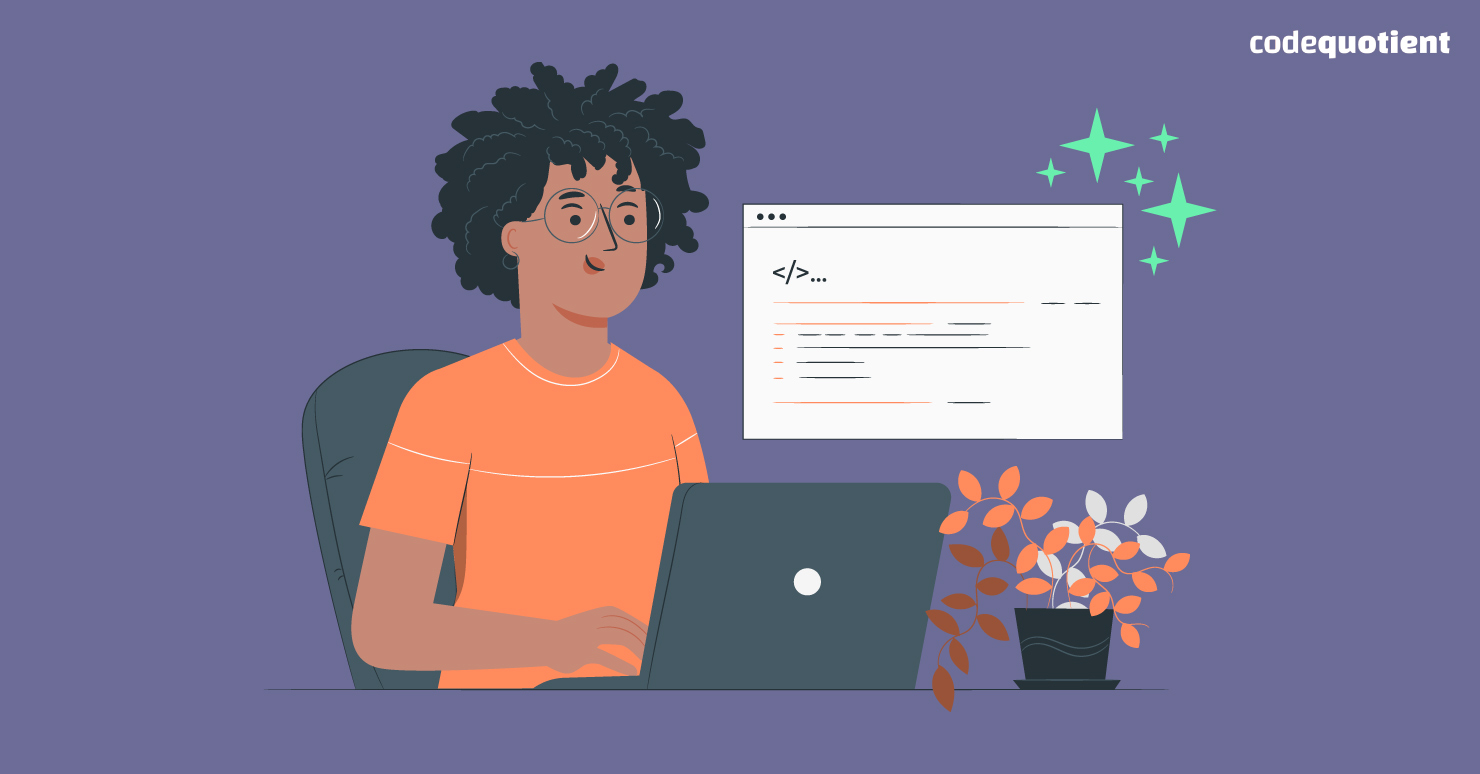
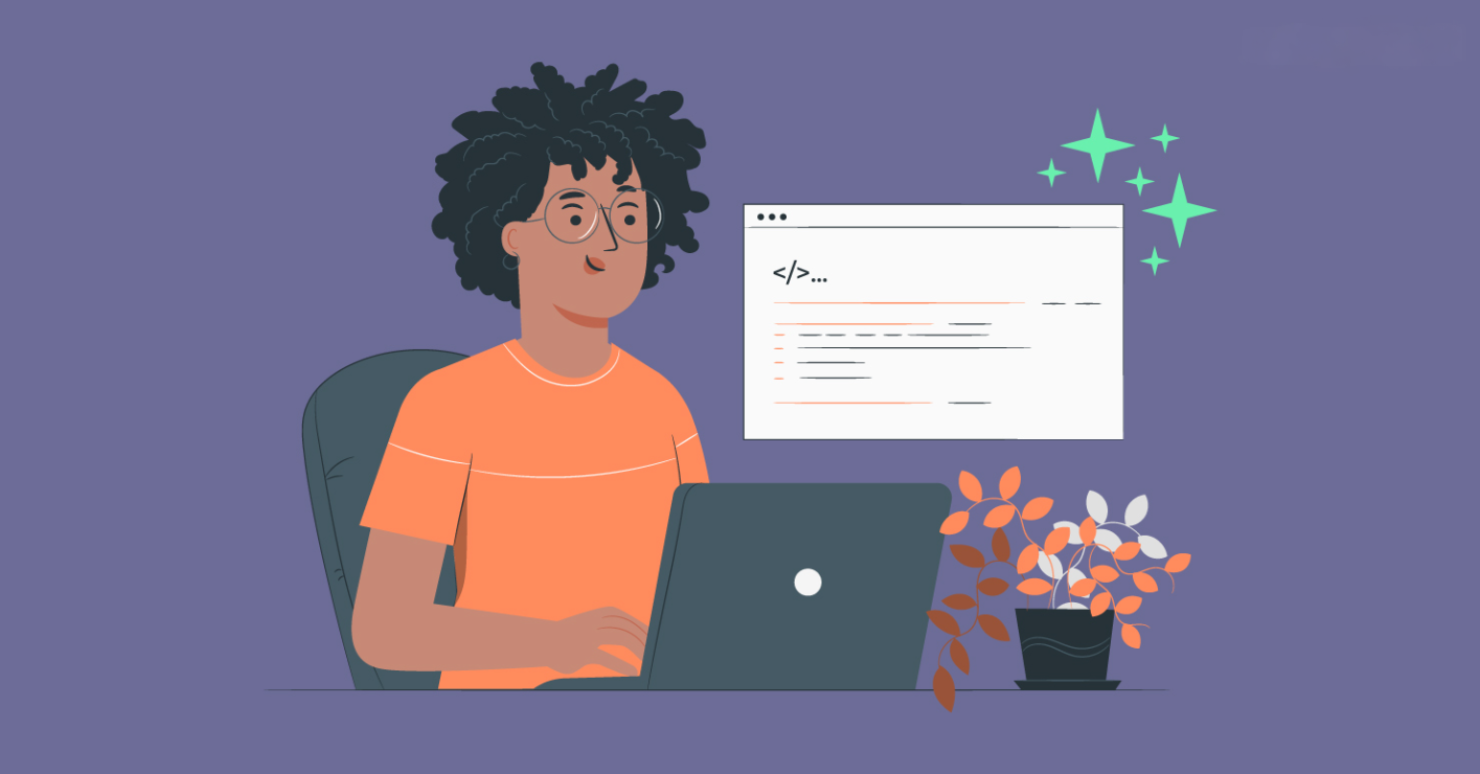
upload-projeto

diff --git a/portifolioorkut__link.html b/portifolioorkut__link.html
@@ -406,12 +406,12 @@
         <article>
             <!-- Inicio das estruturas -->
 
-            <!-- André -->
+            <!-- Alecio -->
 
             <a href="https://dehferrz220.github.io/clean_code_work/" target="_blank"><img src="./print_andre.png"
                     alt="Align Text and Picture" class="align-image" /></a>
 
-            <h2>@dehferrz - Clean Code</h2>
+            <h2>@ - Seletor de Cores</h2>
 
             <p>Escrever código limpo é fundamental para desenvolver aplicações JavaScript que sejam legíveis, escaláveis
                 e de fácil manutenção. Adotar boas práticas, como uma organização eficiente, nomes claros, uso de
@@ -424,12 +424,12 @@
                 limpo e modularização é um investimento na qualidade do seu projeto, garantindo que ele seja robusto
                 hoje e fácil de evoluir no futuro.</p>
 
-            <!-- Eduardo -->
+            <!-- Arthur -->
 
             <a href="https://eduardo-7672.github.io/profile/" target="_blank"><img src="./print_eduardo.png"
                     alt="Align Text and Picture" class="align-image" /></a>
 
-            <h2>@ms.edu15 - Protifolio</h2>
+            <h2>@ - Banco Vocação</h2>
 
             <p>Desenvolver um portfólio impactante é crucial para evidenciar suas habilidades e projetos. Adotar a
                 abordagem Mobile First é a melhor maneira de garantir que ele atenda às necessidades dos usuários
@@ -440,12 +440,12 @@
                 abordagem, que coloca o usuário no centro da experiência. Um portfólio Mobile First não só melhora a
                 usabilidade, mas também demonstra seu domínio das melhores práticas em design e desenvolvimento web.</p>
 
-            <!-- Erick -->
+            <!-- Fabricio -->
 
             <a href="https://erik-pssp.github.io/first_mobile/" target="_blank"><img src="./print_erick.png"
                     alt="Align Text and Picture" class="align-image" /></a>
 
-            <h2>@erikps_15 - Mobile First</h2>
+            <h2>@ - JokeEmPôh</h2>
 
             <p>No desenvolvimento web moderno, adotar a abordagem Mobile First é essencial para criar experiências de
                 usuário otimizadas e acessíveis. O conceito de Mobile First envolve projetar e desenvolver inicialmente
@@ -456,12 +456,12 @@
                 responsivos que se ajustam perfeitamente a diferentes tamanhos de tela, proporcionando uma experiência
                 de usuário consistente e agradável.</p>
 
-            <!-- Gabriel Vitor -->
+            <!-- Gabriela Ramos -->
 
             <a href="https://borgez467.github.io/snake_run/" target="_blank"><img src="./print_GVitor.png"
                     alt="Align Text and Picture" class="align-image" /></a>
 
-            <h2>@@In.gabriel__ - Snake Run</h2>
+            <h2>@ - Hub de Jogos</h2>
 
             <p>A lógica do jogo envolve a manipulação do DOM, o uso de arrays para gerenciar os movimentos da cobra e a
                 implementação de eventos de teclado para um controle dinâmico. Este projeto é um excelente exemplo de
@@ -470,12 +470,12 @@
                 oportunidade para aprimorar suas habilidades em JavaScript enquanto explora as possibilidades do
                 desenvolvimento de jogos.</p>
 
-            <!-- Guilherme Hipolito -->
+            <!-- Kauê Torres -->
 
             <a href="https://thundergirando.github.io/portifolio/" target="_blank"><img src="./print_Hipolito.png"
                     alt="Align Text and Picture" class="align-image" /></a>
 
-            <h2>@thundergirando - Portifolio</h2>
+            <h2>@ - VocacaoFlix</h2>
 
             <p>Desenvolver um portfólio impactante é crucial para destacar suas habilidades e projetos. Adotar o
                 conceito de Mobile First é a melhor maneira de garantir que ele atenda às necessidades dos usuários
@@ -488,12 +488,12 @@
                 não só melhora a usabilidade, mas também demonstra seu domínio das melhores práticas em design e
                 desenvolvimento web.</p>
 
-            <!-- Garbiel Marquez -->
+            <!-- Kauê Nunes -->
 
             <a href="https://marquesz777.github.io/snakerun/" target="_blank"><img src="./print_miura.png"
                     alt="Align Text and Picture" class="align-image" /></a>
 
-            <h2>@b_marquesz - Snake Run</h2>
+            <h2>@ - Temporizador Simples</h2>
 
             <p>A lógica do jogo envolve a manipulação do DOM, o uso de arrays para gerenciar os movimentos da cobra e a
                 implementação de eventos de teclado para um controle dinâmico. Este projeto é um excelente exemplo de
@@ -502,12 +502,12 @@
                 oportunidade para aprimorar suas habilidades em JavaScript enquanto explora as possibilidades do
                 desenvolvimento de jogos.</p>
 
-            <!-- Guilherme Vieira -->
+            <!-- Leonardo Lira -->
 
             <a href="https://guilhermeghz.github.io/portifolio/" target="_blank"><img src="./print_guilherme.png"
                     alt="Align Text and Picture" class="align-image" /></a>
 
-            <h2>@Ghz.vieira - Portifolio</h2>
+            <h2>@ - Hangman Game</h2>
 
             <p>Desenvolver um portfólio impactante é crucial para destacar suas habilidades e projetos. Adotar o
                 conceito de Mobile First é a melhor maneira de garantir que ele atenda às necessidades dos usuários
@@ -520,12 +520,12 @@
                 não só melhora a usabilidade, mas também demonstra seu domínio das melhores práticas em design e
                 desenvolvimento web.</p>
 
-            <!-- Henrique -->
+            <!-- Lecticia (Let) -->
 
             <a href="https://rique-so07.github.io/profile/" target="_blank"><img src="./print_henrique.png"
                     alt="Align Text and Picture" class="align-image" /></a>
 
-            <h2>@_.rrik - Portifolio</h2>
+            <h2>@ - Temporizador Simples</h2>
 
             <p>Desenvolver um portfólio impactante é crucial para destacar suas habilidades e projetos. Adotar o
                 conceito de Mobile First é a melhor maneira de garantir que ele atenda às necessidades dos usuários
@@ -538,22 +538,22 @@
                 não só melhora a usabilidade, mas também demonstra seu domínio das melhores práticas em design e
                 desenvolvimento web.</p>
 
-            <!-- Henrique
+            <!-- Marcos Primo-->
 
             <a href="#" target="_blank"><img src="#" alt="Align Text and Picture" class="align-image" /></a>
 
-            <h2>Texto Tema</h2>
+            <h2>@ - Seletor de Cores</h2>
 
             <p> Lorem ipsum, dolor sit amet consectetur adipisicing elit. Beatae voluptates eius non laboriosam
                 reprehenderit incidunt nesciunt debitis dignissimos velit excepturi voluptate placeat ea esse doloremque
-                consectetur, qui, voluptatum ratione eos!</p> -->
+                consectetur, qui, voluptatum ratione eos!</p> 
 
-            <!-- Jack -->
+            <!-- Matheus André -->
 
             <a href="https://j4ckck.github.io/portifolio/galeria.html" target="_blank"><img src="./print_jack.png"
                     alt="Align Text and Picture" class="align-image" /></a>
 
-            <h2>@griloalbino - Portifolio</h2>
+            <h2>@ - Inserct Attack</h2>
 
             <p>Desenvolver um portfólio impactante é crucial para destacar suas habilidades e projetos. Adotar o
                 conceito de Mobile First é a melhor maneira de garantir que ele atenda às necessidades dos usuários
@@ -566,12 +566,12 @@
                 não só melhora a usabilidade, mas também demonstra seu domínio das melhores práticas em design e
                 desenvolvimento web.</p>
 
-            <!-- Lais -->
+            <!-- Mayara (Maya) -->
 
             <a href="https://laispaiv4.github.io/clean_code_work/" target="_blank"><img src="./print_lais.png"
                     alt="Align Text and Picture" class="align-image" /></a>
 
-            <h2>@_.layspaivaa - Clean Code</h2>
+            <h2>@ - VocacaoFlix</h2>
 
             <p>Escrever código limpo é fundamental para desenvolver aplicações JavaScript que sejam legíveis, escaláveis
                 e de fácil manutenção. Adotar boas práticas, como uma organização eficiente, nomes claros, uso de
@@ -585,12 +585,12 @@
                 hoje e fácil de evoluir no futuro.</p>
 
 
-            <!-- Luis Fernando -->
+            <!-- Rafael Rocha (Gatão) -->
 
             <a href="https://luisfernandogsvg.github.io/Snake_Run/" target="_blank"><img src="./print_LFernando.png"
                     alt="Align Text and Picture" class="align-image" /></a>
 
-            <h2>@Luis_fernando.junior - Snake Run</h2>
+            <h2>@ - Dark Mode</h2>
 
             <p>A lógica do jogo envolve a manipulação do DOM, o uso de arrays para gerenciar os movimentos da cobra e a
                 implementação de eventos de teclado para um controle dinâmico. Este projeto é um excelente exemplo de
@@ -600,12 +600,12 @@
                 desenvolvimento de jogos.</p>
 
 
-            <!-- Nathaly -->
+            <!-- Guilherme 
 
             <a href="https://naahtyx.github.io/portif-lio/" target="_blank"><img src="./print_nathaly.png"
                     alt="Align Text and Picture" class="align-image" /></a>
 
-            <h2>@naahtyx - Portifolio</h2>
+            <h2>@ - None</h2>
 
             <p>Desenvolver um portfólio impactante é crucial para destacar suas habilidades e projetos. Adotar o
                 conceito de Mobile First é a melhor maneira de garantir que ele atenda às necessidades dos usuários
@@ -616,14 +616,14 @@
                 interações envolventes. Elementos como menus simplificados, imagens otimizadas e navegação intuitiva são
                 fundamentais nessa estratégia, que coloca o usuário no centro da experiência. Um portfólio Mobile First
                 não só melhora a usabilidade, mas também demonstra seu domínio das melhores práticas em design e
-                desenvolvimento web.</p>
+                desenvolvimento web.</p>-->
 
-            <!-- Yuri -->
+            <!-- Pedro -->
 
             <a href="https://yurisilvamurayama.github.io/portifolio/" target="_blank"><img src="./print_yuri.png"
                     alt="Align Text and Picture" class="align-image" /></a>
 
-            <h2>@muray_ma_ - Portifolio</h2>
+            <h2>@ - Seletor de Cores</h2>
 
             <p>Desenvolver um portfólio impactante é crucial para destacar suas habilidades e projetos. Adotar o
                 conceito de Mobile First é a melhor maneira de garantir que ele atenda às necessidades dos usuários

diff --git a/portifolioorkut_link.html b/portifolioorkut_link.html
@@ -466,12 +466,12 @@
     <article>
       <!-- Inicio das estruturas -->
 
-      <!-- Beatriz -->
+      <!-- João -->
 
       <a href="https://biasbi.github.io/fund_tool/" target="_blank"><img src="./print_portifoliobia.png"
           alt="Align Text and Picture" class="align-image" /></a>
 
-      <h2>Clean Code e Modulação em JavaScript</h2>
+      <h2>@ - Hangman Game</h2>
 
       <p> Desenvolver código limpo (Clean Code) é essencial para criar aplicações JavaScript legíveis, escaláveis
         e
@@ -493,13 +493,13 @@
         hoje
         e fácil de evoluir no futuro.</p>
 
-      <!-- Danilo -->
+      <!-- Lazaro -->
 
       <a href="https://danweb4.github.io/portifolio/" target="_blank"><img src="./print_portifoliodanilo.png"
           alt="Align Text and Picture" class="align-image" /></a>
 
 
-        <h2>Portfólio Mobile First: Mostre Seu Talento de Forma Otimizada</h2>
+        <h2>@ - Controle de Multa</h2>
 
         <p> Criar um portfólio impactante é essencial para destacar suas habilidades e projetos, e adotar o conceito
           de Mobile First é o melhor caminho para garantir que ele se adapte às necessidades dos usuários
@@ -512,12 +512,12 @@
           só melhora a usabilidade, mas também demonstra seu domínio de boas práticas em design e desenvolvimento
           web.</p>
 
-        <!-- Lyn -->
+        <!-- Nicolas -->
 
         <a href="https://lynkiaa.github.io/Clear_Code_Work/" target="_blank"><img src="./print_cleancodelyn.png"
             alt="Align Text and Picture" class="align-image" /></a>
 
-        <h2>Clean Code e Modulação em JavaScript</h2>
+        <h2>@ - Expanding Cards - Playlist Music</h2>
 
         <p> Desenvolver código limpo (Clean Code) é essencial para criar aplicações JavaScript legíveis, escaláveis
           e
@@ -539,12 +539,12 @@
           hoje
           e fácil de evoluir no futuro.</p>
 
-        <!-- Juliane -->
+        <!-- Stephany (Ster) -->
 
         <a href="https://julianewebdesign.github.io/SnakeRunJuliane/" target="_blank"><img src="./print_snake.png"
             alt="Align Text and Picture" class="align-image" /></a>
 
-        <h2>Game em JavaScript: Snake Run</h2>
+        <h2>@ - Calculadora</h2>
 
         <p>
           O clássico jogo Snake ganha uma nova versão interativa e divertida com Snake Run, desenvolvido
@@ -566,12 +566,12 @@
 
         </p>
 
-        <!-- Lais -->
+        <!-- Weslley -->
 
         <a href="https://lais22w.github.io/Integration_and_GoodPractices/index.html" target="_blank"><img
             src="./print_git.png" alt="Align Text and Picture" class="align-image" /></a>
 
-        <h2>Bem-vindo ao Git Hub! </h2>
+        <h2>@ - Hangman Game</h2>
 
         <p>
           GitHub é muito mais do que uma plataforma de hospedagem de código: é o ponto de encontro para
@@ -587,12 +587,12 @@
           possibilitando o desenvolvimento de soluções inovadoras e impactantes.
         </p>
 
-        <!-- Marcella -->
+        <!-- Yasmin (Mika) -->
 
         <a href="https://eanoriii.github.io/orkut/" target="_blank"><img src="./print_orkut.png"
             alt="Align Text and Picture" class="align-image" /></a>
 
-        <h2>Bem-vindo à Recriação do Orkut! </h2>
+        <h2>@ - Hangman Game</h2>
 
         <p>
           Estamos trazendo de volta a magia da rede social que marcou gerações, resgatando sua essência e atualizando
@@ -611,7 +611,7 @@
         </p>
 
 
-        <!-- Maria Eduarda -->
+        <!-- Maria Eduarda 
 
         <a href="https://marialuiza2812.github.io/snakerun-js/" target="_blank"><img src="./print_cleancodeMaria.png"
             alt="Align Text and Picture" class="align-image" /></a>
@@ -640,7 +640,7 @@
 
         </p>
 
-        <!-- Yasmim -->
+        //Yasmim
 
         <a href="https://yasmimweb06.github.io/clean_code_Work/" target="_blank"><img src="./print_cleancodeYasmim.png"
             alt="Align Text and Picture" class="align-image" height="150px" /></a>
@@ -665,7 +665,7 @@
 
             Aplicar clean code e modulação é investir na qualidade do seu projeto, garantindo que ele seja robusto
             hoje
-            e fácil de evoluir no futuro.</p>
+            e fácil de evoluir no futuro.</p>-->
 
 
         </article>

diff --git a/index.html b/index.html
@@ -37,15 +37,18 @@
 
     /* Estilo geral */
     body {
+      min-height: 100vh;
       background-image: linear-gradient(to bottom, #2f4858, #6e4e8f);
+      background-attachment: fixed;
+      background-color: #f4f4f4;
       background-repeat: no-repeat;
       background-position: top;
-      background-attachment: scroll;
       font-family: Arial, sans-serif;
       line-height: 1.6;
       margin: 0;
       padding: 0;
-      background-color: #f4f4f4;
+
+
     }
 
     /* Estilo do cabeçalho */
@@ -156,7 +159,7 @@
         background-image: linear-gradient(to bottom, #2f4858, #6e4e8f);
         background-repeat: no-repeat;
         background-position: top;
-        background-attachment: scroll;
+        background-attachment: fixed;
       }
 
       #burger {
@@ -219,7 +222,7 @@
         background-image: linear-gradient(to bottom, #2f4858, #6e4e8f);
         background-repeat: no-repeat;
         background-position: top;
-        background-attachment: scroll;
+        background-attachment: fixed;
       }
 
       #burger {
@@ -288,7 +291,7 @@
         background-image: linear-gradient(to bottom, #2f4858, #6e4e8f);
         background-repeat: no-repeat;
         background-position: top;
-        background-attachment: scroll;
+        background-attachment: fixed;
       }
 
       #burger {
@@ -379,18 +382,10 @@
       <li><a href="index.html">Home</a></li>
       <li><a href="portifolioorkut_link.html">Manhã-Web Design</a></li>
       <li><a href="portifolioorkut__link.html">Tarde-Web Design</a></li>
-      <!-- <li><a href="github.html">Manhã-Lais</a></li>
-      <li><a href="snake.html">Manhã-Juliane</a></li>
-      <li><a href="cleancode.html">Manhã-Yasmim</a></li>
-      <li><a href="portifoliodanilo.html">Manhã-Danilo</a></li>
-      <li><a href="snakerunmaria.html">Manhã-Maria</a></li>
-      <li><a href="cleancodeluis.html">Manhã-Luis_Fernando</a></li>
-      <li><a href="fundtoolsbia.html">Manhã-Beatriz</a></li>
-      <li><a href="clearcodelyn.html">Manhã-Evellyn</a></li> -->
     </ul>
   </menu>
   <main>
-    <img src="./capa_web_design.png" alt="Align Text and Picture" />
+    <img src="./clean_code_img.png" alt="Align Text and Picture" />
 
     <article>
       Bem-vindo(a) à nossa vitrine criativa! Aqui você encontra os projetos desenvolvidos por jovens talentos que estão
